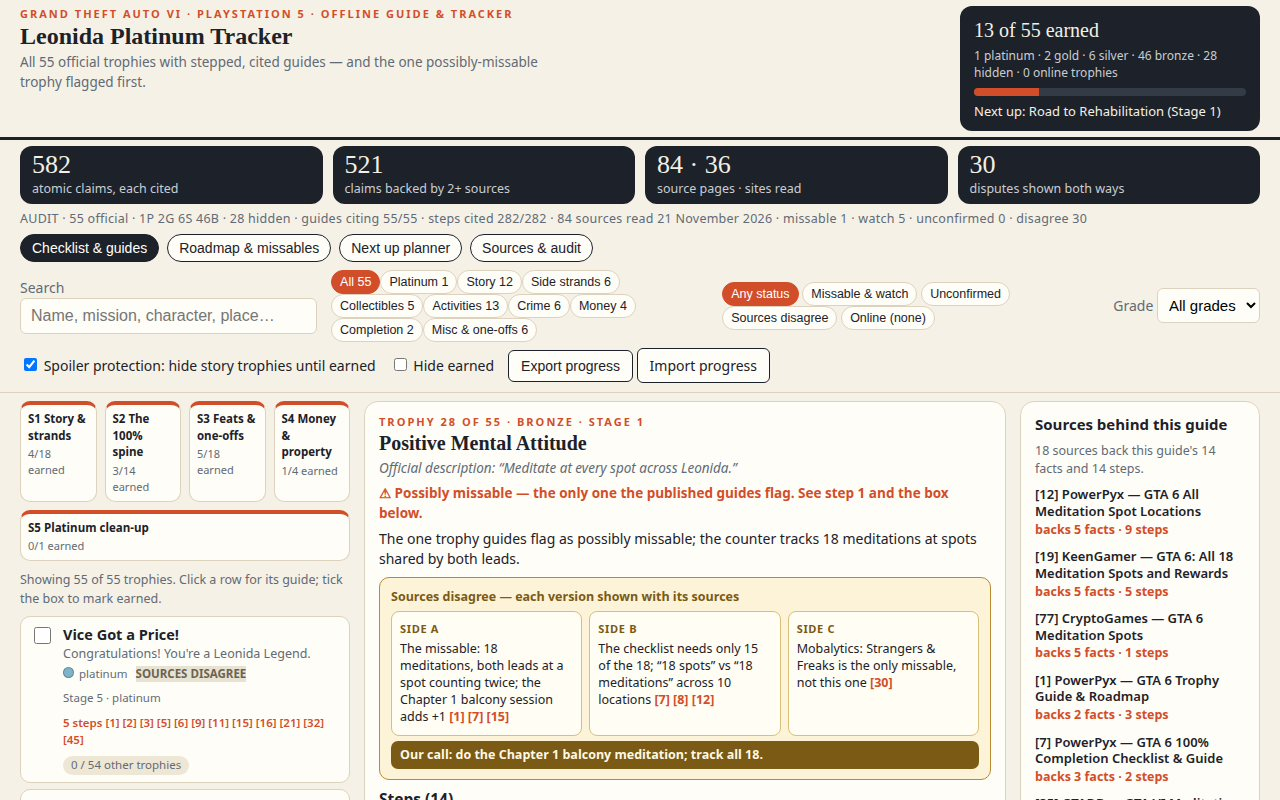
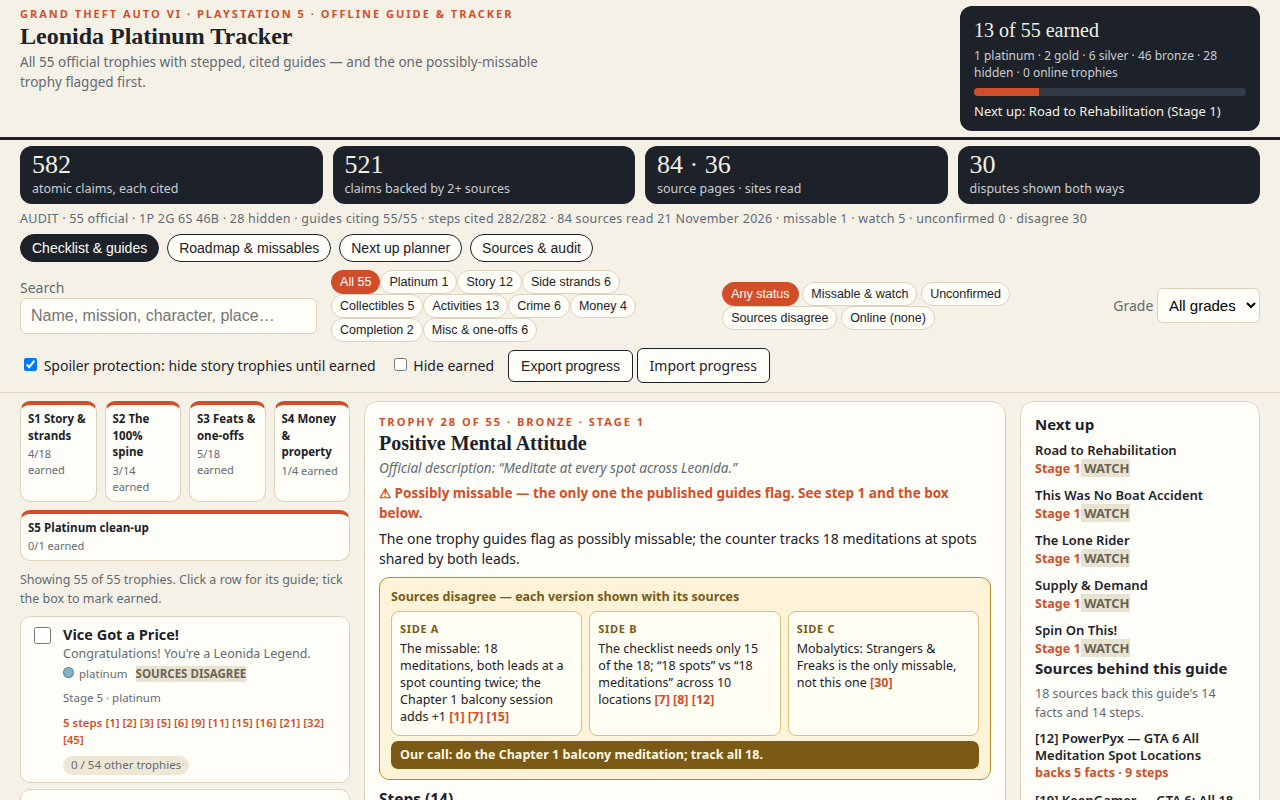
Finals round 2: Next up rail on the cover, roadmap summary band with cited stats and per-stage progress bars, per-site rollup on the sources view

Changed region(s): [[0.8125, 0.5, 0.9688, 1.0]]

diff --git a/app/js/views.js b/app/js/views.js
@@ -183,10 +183,23 @@ export function renderDetail(doc, trophy, store) {
   panel.append(done);
 }
 
-// Rail: sources the guide cites, facts/steps backed per source.
-export function renderRail(doc, trophy) {
+// Rail: the Next Up five first, then sources the guide cites.
+export function renderRail(doc, trophy, nextUp = []) {
   const rail = document.getElementById('sources-rail');
   rail.replaceChildren();
+  if (nextUp.length) {
+    rail.append(element('h3', 'rail-title', 'Next up'));
+    const upList = element('ul', 'rail-list rail-nextup');
+    for (const up of nextUp) {
+      const item = element('li', 'rail-entry');
+      item.append(element('span', 'rail-name', up.name));
+      item.append(element('span', 'rail-counts', `Stage ${up.stage}`));
+      if (up.missable) item.append(element('span', 'flag', ' ⚠ MISSABLE'));
+      else if (up.story_window) item.append(element('span', 'flag flag-quiet', ' WATCH'));
+      upList.append(item);
+    }
+    rail.append(upList);
+  }
   rail.append(element('h3', 'rail-title', 'Sources behind this guide'));
   if (!trophy) {
     rail.append(element('p', 'rail-empty', 'Select a trophy to see the sources its guide rests on.'));
@@ -204,15 +217,49 @@ export function renderRail(doc, trophy) {
   rail.append(list);
 }
 
+// The run at a glance: every number is read off the platinum trophy's own
+// facts and dispute sides, with the refs those entries already carry; the
+// missable / watch counts are counted from the trophy flags themselves.
+function roadmapBandItems(trophies) {
+  const platinum = trophies.find((trophy) => trophy.kind === 'platinum');
+  const items = [];
+  const hours = (platinum?.disagreement?.sides ?? []).find((side) => /200 hours/.test(side.t));
+  if (hours) items.push({ label: '~200 hours', refs: hours.refs });
+  const facts = platinum?.facts ?? [];
+  const difficulty = facts.find((fact) => /difficulty 4 out of 10/.test(fact.t));
+  if (difficulty) items.push({ label: 'difficulty 4/10', refs: difficulty.refs });
+  const run = facts.find((fact) => /^One playthrough/.test(fact.t));
+  if (run) items.push({ label: '1 playthrough', refs: run.refs });
+  const missable = trophies.filter((trophy) => trophy.missable).length;
+  const watch = trophies.filter((trophy) => trophy.story_window).length;
+  if (missable) items.push({ label: `${missable} possibly missable`, refs: [] });
+  if (watch) items.push({ label: `${watch} on watch`, refs: [] });
+  return items;
+}
+
 export function renderRoadmap(trophies, store) {
   const wrap = document.getElementById('roadmap-stages');
   wrap.replaceChildren();
+  const band = element('p', 'roadmap-band', 'The run at a glance: ');
+  roadmapBandItems(trophies).forEach((item, index) => {
+    if (index) band.append(document.createTextNode(' · '));
+    band.append(document.createTextNode(item.label));
+    if (item.refs?.length) band.append(element('span', 'step-refs', ` [${item.refs.join('] [')}]`));
+  });
+  wrap.append(band);
   for (const stageInfo of ROADMAP_STAGES) {
     const section = element('section', 'stage');
     section.append(element('h3', '', stageInfo.title));
     section.append(element('p', '', stageInfo.text));
+    const inStage = trophiesForStage(trophies, stageInfo.stage);
+    const earnedInStage = inStage.filter((trophy) => store.isEarned(trophy.id)).length;
+    const progress = element('div', 'stage-progress');
+    const fill = element('span', 'stage-progress-fill');
+    fill.style.width = `${inStage.length ? Math.round((earnedInStage / inStage.length) * 100) : 0}%`;
+    progress.append(fill);
+    section.append(progress, element('p', 'stage-progress-label', `${earnedInStage}/${inStage.length} earned in this stage`));
     const chips = element('div', 'chips');
-    for (const trophy of trophiesForStage(trophies, stageInfo.stage)) {
+    for (const trophy of inStage) {
       const chip = element('span', 'tchip', trophy.name);
       if (store.isEarned(trophy.id)) chip.classList.add('done');
       chips.append(chip);
@@ -267,6 +314,41 @@ export function renderSources(doc) {
   const claimCounts = sourceClaimCounts(doc);
   const list = document.getElementById('sources-list');
   list.replaceChildren();
+  // Per-site rollup, counted from the same citations as the list below:
+  // pages = cited registry pages on the site; guides = trophies citing it.
+  const citedNumbers = new Set();
+  const guidesPerSite = new Map();
+  for (const trophy of doc.trophies ?? []) {
+    const sites = new Set();
+    for (const ref of citedRefsFor(trophy)) {
+      citedNumbers.add(ref);
+      const source = sourceByNumber(doc, ref);
+      if (source) sites.add(source.site);
+    }
+    for (const site of sites) guidesPerSite.set(site, (guidesPerSite.get(site) ?? 0) + 1);
+  }
+  const pagesPerSite = new Map();
+  for (const source of doc.sources ?? []) {
+    if (citedNumbers.has(source.n)) pagesPerSite.set(source.site, (pagesPerSite.get(source.site) ?? 0) + 1);
+  }
+  document.getElementById('site-rollup')?.remove();
+  const table = element('table', 'site-rollup');
+  table.id = 'site-rollup';
+  const head = element('tr');
+  for (const label of ['Site', 'Pages read', 'Guides citing']) head.append(element('th', '', label));
+  table.append(head);
+  const rows = [...pagesPerSite.entries()]
+    .sort((a, b) => b[1] - a[1] || (guidesPerSite.get(b[0]) ?? 0) - (guidesPerSite.get(a[0]) ?? 0));
+  for (const [site, pages] of rows) {
+    const row = element('tr');
+    row.append(
+      element('td', '', site),
+      element('td', '', String(pages)),
+      element('td', '', `${guidesPerSite.get(site) ?? 0} of 55`),
+    );
+    table.append(row);
+  }
+  list.before(table);
   for (const source of doc.sources ?? []) {
     const item = element('li', 'source-entry');
     const counts = claimCounts.get(source.n) ?? { claims: 0, backed: 0 };

diff --git a/app/style.css b/app/style.css
@@ -115,6 +115,14 @@ h1 { margin: 0; font-family: Iowan Old Style, Palatino, Georgia, serif; font-siz
   padding: 12px 14px; position: sticky; top: 12px; font-size: 13px;
 }
 .rail-title { margin: 0 0 6px; font-size: 15px; }
+.rail-nextup { margin-bottom: 14px; }
+.roadmap-band { background: var(--pane); border: 1px solid var(--line); border-radius: 12px; padding: 10px 16px; font-weight: 600; }
+.stage-progress { height: 6px; background: #e8e2d2; border-radius: 999px; overflow: hidden; margin: 2px 0 4px; }
+.stage-progress-fill { display: block; height: 100%; background: var(--accent); }
+.stage-progress-label { font-size: 12.5px; margin: 0 0 8px; }
+.site-rollup { border-collapse: collapse; margin: 10px 0 16px; font-size: 13.5px; }
+.site-rollup th, .site-rollup td { border: 1px solid var(--line); padding: 4px 10px; text-align: left; }
+.site-rollup th { background: var(--pane); }
 .rail-summary { color: var(--muted); margin: 0 0 8px; font-size: 12.5px; }
 .rail-list { list-style: none; margin: 0; padding: 0; display: grid; gap: 9px; }
 .rail-name { display: block; font-weight: 600; line-height: 1.3; }

diff --git a/app/js/main.js b/app/js/main.js
@@ -64,7 +64,7 @@ function renderAll() {
     renderAll();
   });
   renderDetail(doc, currentTrophy(), store);
-  renderRail(doc, currentTrophy());
+  renderRail(doc, currentTrophy(), nextUp);
   renderRoadmap(all, store);
   renderNextUp(nextUp);
   document.getElementById('checklist-view').hidden = view.panel !== 'checklist';
